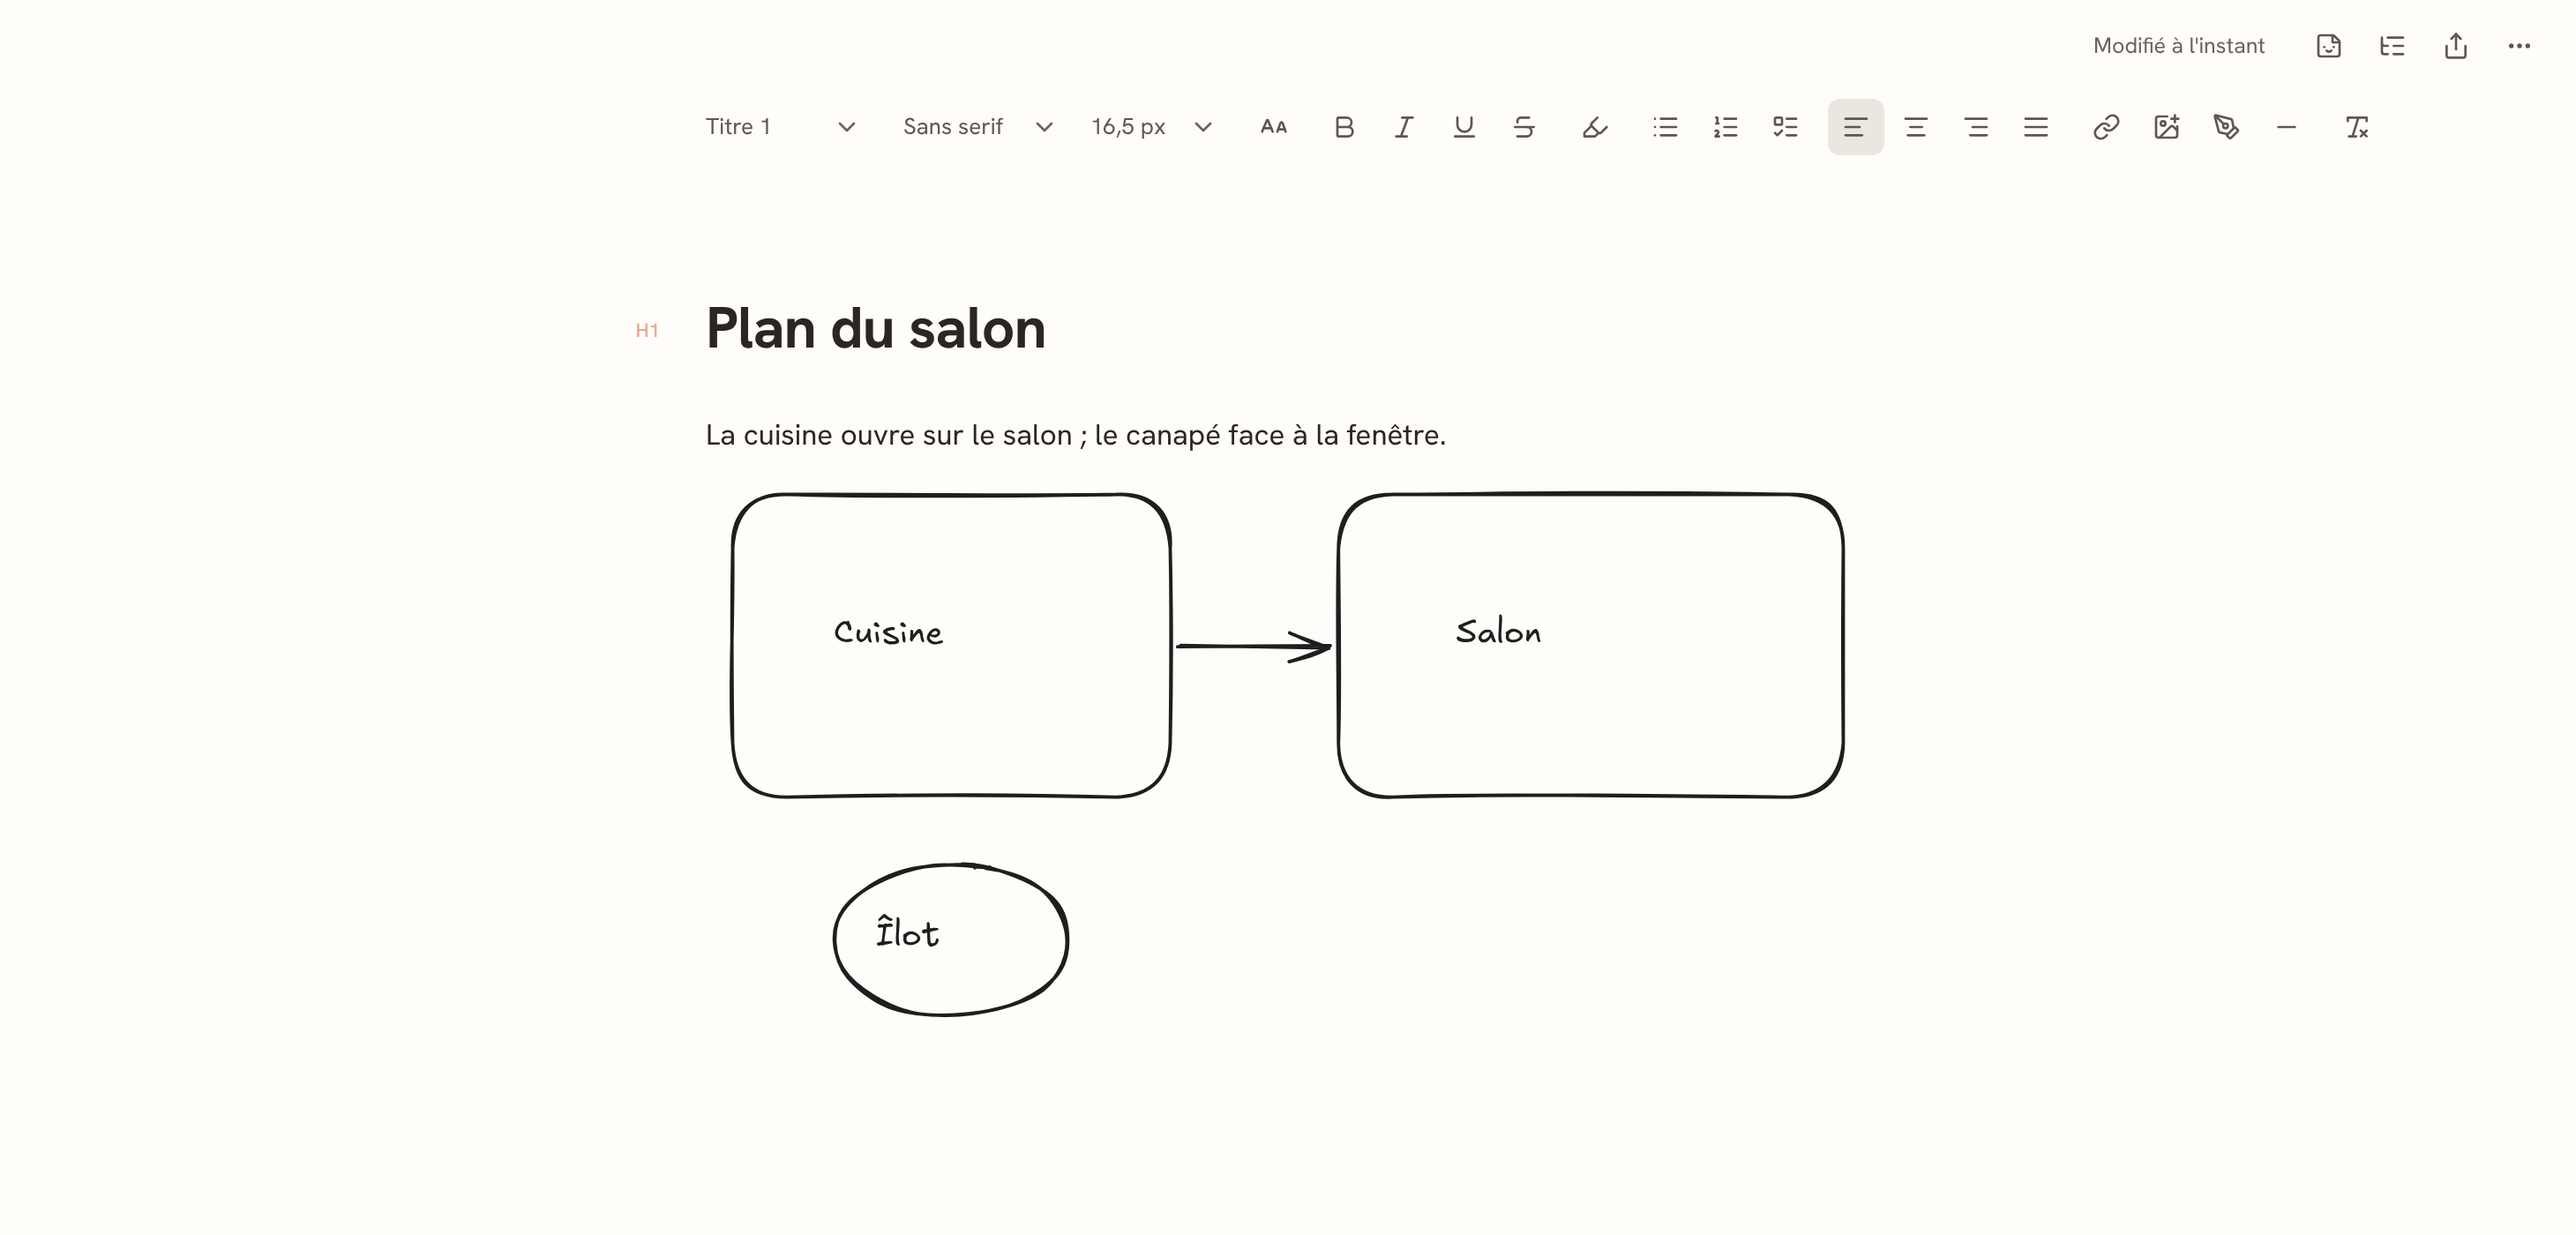
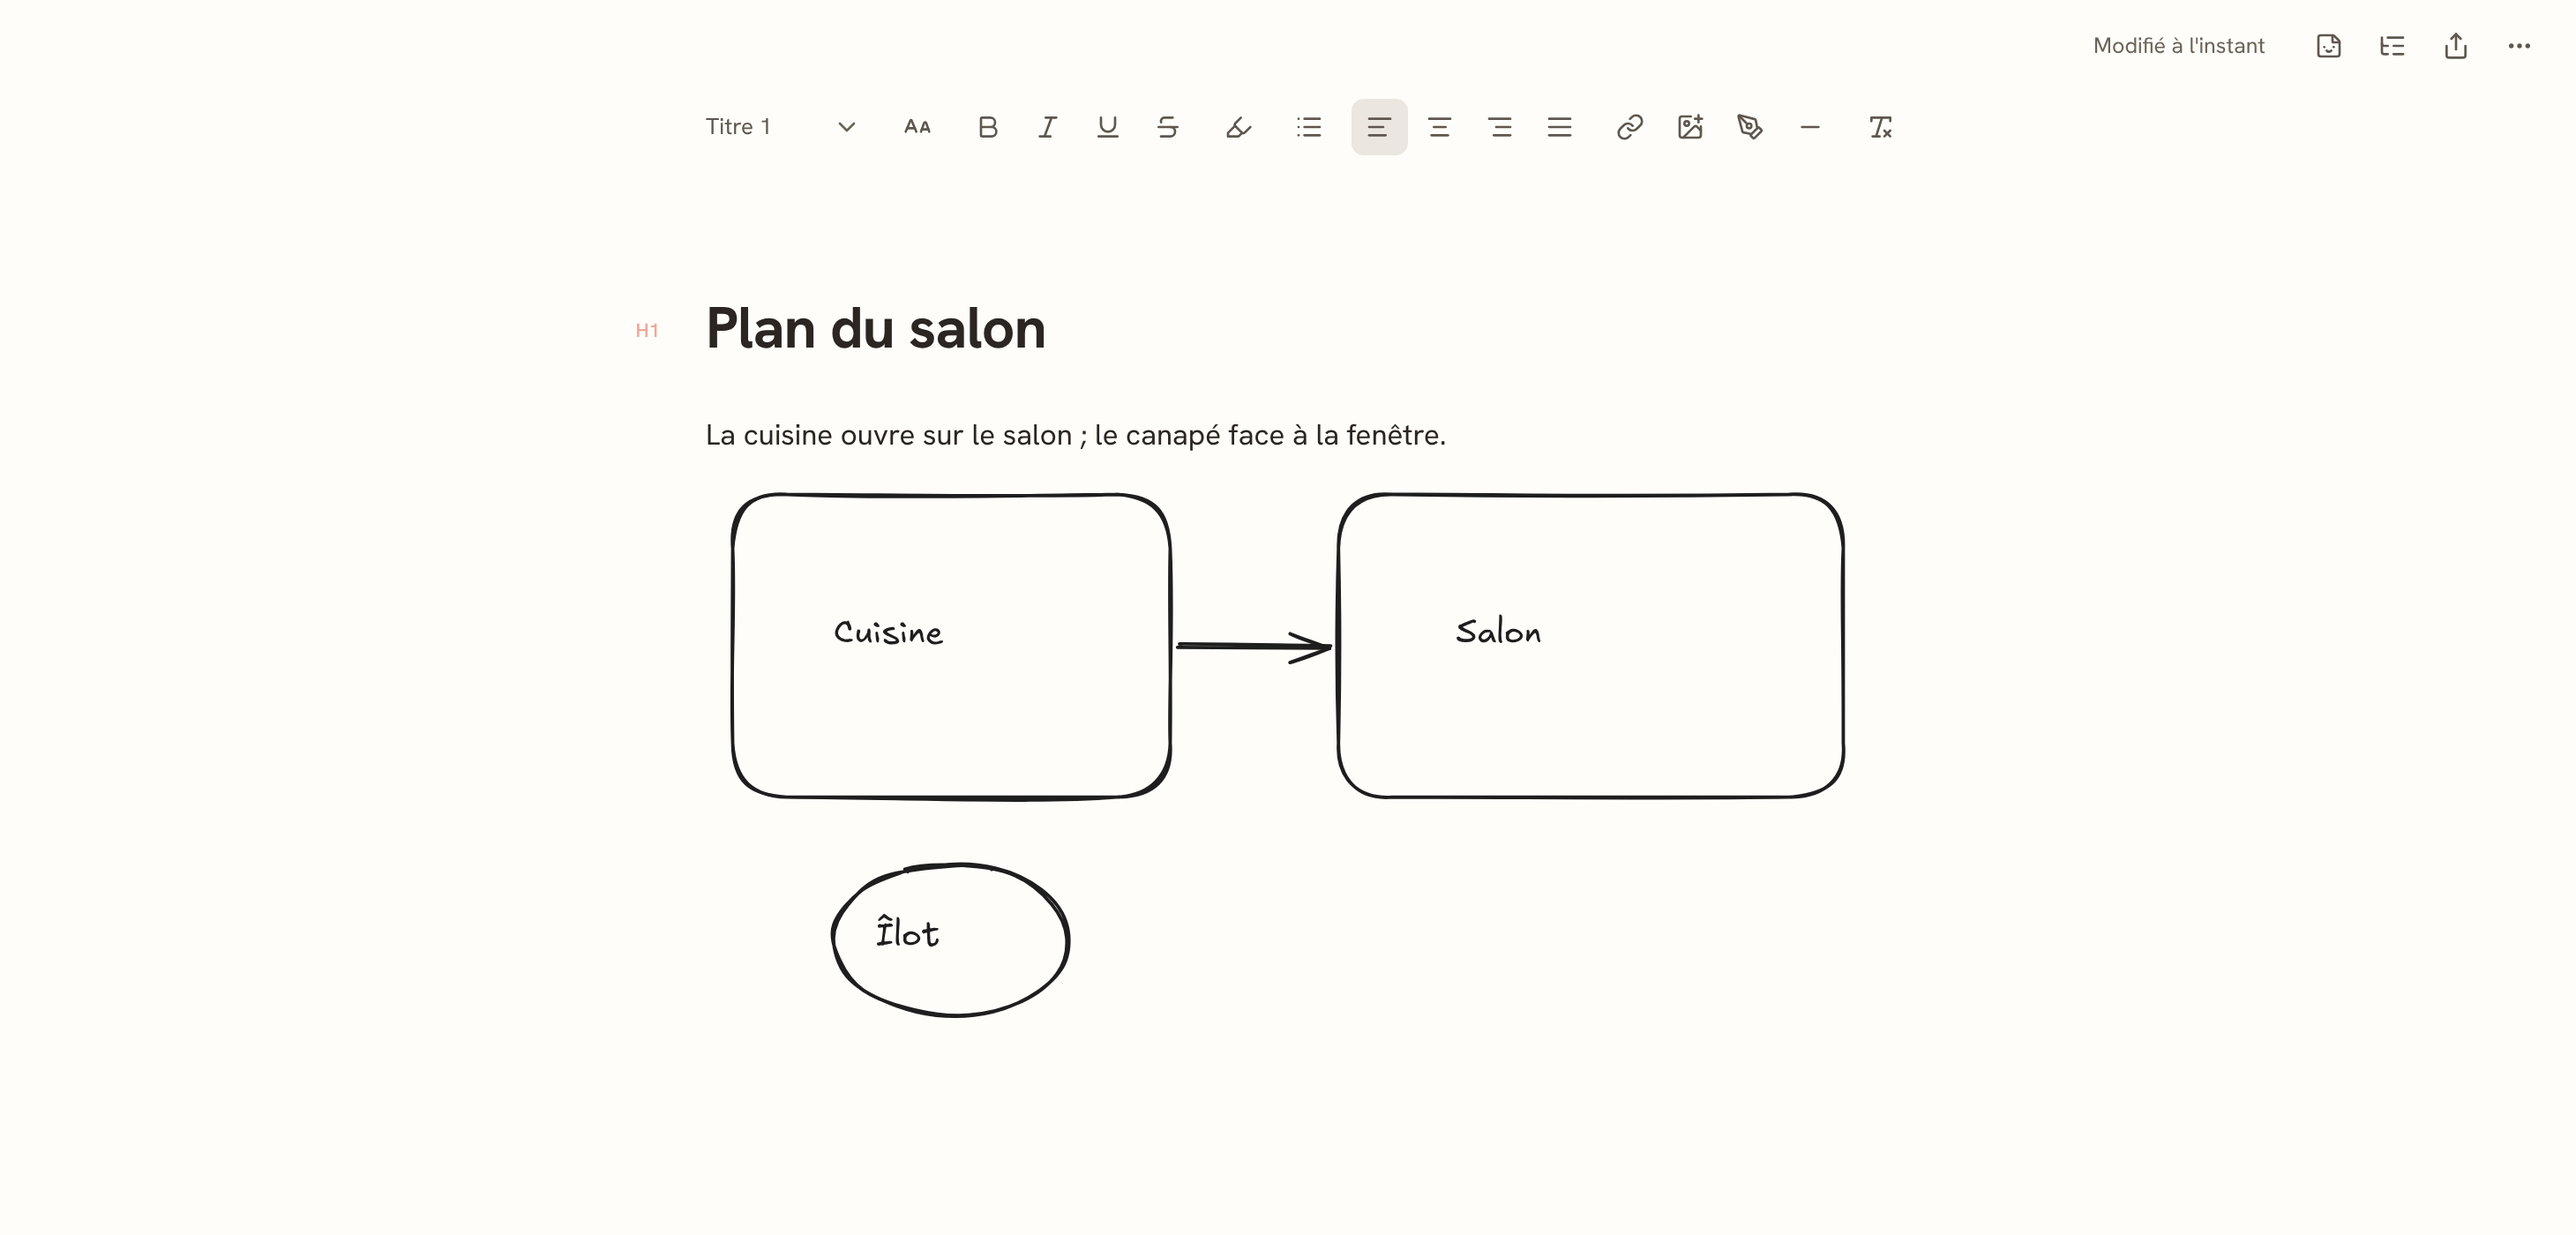
phase 12: docs for the pre-merge feedback; CHANGELOG 1.0.0 includes the toolbar and drawings
PROGRESS: compact toolbar, drawing versions, dark hues, CJK font (decisions
P12-9 to P12-11), the steps to recreate the 1.0.0 release from main, and a
Windows checklist. CHANGELOG: the unreleased section folded into 1.0.0, which
is to be recreated from main. CLAUDE.md: drawing versions, the CJK font and
its network access. Captures retaken at 1 440 px with both side columns open,
plus the "Aa" popover.

Claude-Session: https://claude.ai/code/session_013rnneVvYnVFkH2YCQ6T5TA

diff --git a/PROGRESS.md b/PROGRESS.md
@@ -15,7 +15,7 @@
 | 8 | Stickers et post-it | ✅ validée |
 | 9 | OCR local | ✅ validée |
 | 10 | Export, raccourcis, palette, packaging | 🟡 10a à 10d validées ; retours sur la 1.0 traités, à valider |
-| — | Barre de mise en forme, dessins (Excalidraw) | 🟡 faite sur `feature/barre-format`, à valider |
+| — | Barre de mise en forme, dessins (Excalidraw) | 🟡 faite sur `feature/barre-format` (retours avant fusion traités), à valider |
 
 ---
 
@@ -1292,6 +1292,40 @@ Aucune maquette ne montre la barre de mise en forme ni l'éditeur de dessin. La 
 8. Double-clic (puis Ctrl+clic) sur le dessin : modifie, « Fermer » : la question « Fermer sans enregistrer ? » ; Enregistrer : l'aperçu se met à jour. Recherche « cuisine » : la note sort, « Trouvé dans un dessin ».
 9. Palette sombre : le dessin s'inverse lisiblement. Duplique la note, modifie le dessin de la copie : l'original ne change pas. Exporte en PDF, DOCX, PNG et Markdown : dessin, police, tailles, souligné et couleurs présents ; le dossier Markdown contient le `.svg` et le `.excalidraw`.
 10. Coupe le réseau (mode avion) puis ouvre l'éditeur de dessin : tout fonctionne, polices comprises.
+
+### Retours avant fusion (barre de mise en forme) : fait, à valider
+
+- **Barre compacte** : police et taille de la note + taille de la sélection derrière un seul bouton « Aa » (popover : deux listes et un sélecteur petit / normal / grand, appliqués tout de suite, annulables) ; puces / numérotée / tâche dans un seul menu « Listes » (icône du type courant). Faute de place, l'alignement puis l'insertion se replient chacun en un bouton-menu ; « … » ne sert qu'en dessous d'environ 1 140 px avec barre latérale et liste ouvertes. Mesuré par `test:format` : barre entière sans débordement à 1 440 px, alignement en menu à 1 280, insertion aussi à 1 200, « … » à 1 000 (P12-9).
+- **Versions des dessins** : avant chaque enregistrement d'un dessin modifié, la scène remplacée est gardée dans `.ursa/backups/dessins/<id>/` (5 dernières ; jamais listée ni purgée comme une sauvegarde). « Versions précédentes… » dans la barre du dessin (note) et dans l'éditeur de dessin : une version s'ouvre dans l'éditeur, l'enregistrer la restaure (l'actuelle est gardée à son tour) (P12-10).
+- **Sombre** : l'inversion (`invert(93%) hue-rotate(180deg)`, comme Excalidraw) garde les teintes : rouge 0° → 0°, vert 131° → 131°, bleu 209° → 209°, orange 35° → 32° (`test:drawing`, filtre réel). Captures `dessin-couleurs-clair.png` / `dessin-couleurs-sombre.png`. Trouvé en route : Excalidraw lit l'emplacement de ses polices une seule fois, au chargement de son code ; il est maintenant posé au démarrage.
+- **Chinois** (simplifié et traditionnel, japonais, coréen) : sans police CJK, le texte s'affiche avec la police du système dans l'éditeur, l'aperçu et les exports ; l'aperçu pointait vers le CDN d'Excalidraw pour la police qu'il n'avait pas pu embarquer, c'est retiré. Réglages › Dessins propose le téléchargement à la demande, une seule fois pour l'ordinateur, de Xiaolai (209 fichiers, 12 Mo), par le code réseau des aperçus de liens, chaque fichier vérifié par SHA-256 ; les aperçus enregistrés ensuite embarquent ses glyphes : même rendu partout. L'éditeur de dessin le propose quand le dessin contient du CJK (P12-11). `test:drawing` dessine le texte sans puis avec la police et écrit éditeur, note, image d'export et PDF dans `test-results/drawing-cjk/`, publié par la CI Windows (artefact `drawing-cjk`, rendu de Windows) ; la CI télécharge aussi un vrai fichier (test Rust).
+
+### Décisions (retours avant fusion)
+
+| # | Sujet | Décision |
+|---|---|---|
+| P12-9 | Barre compacte | « Aa » = popover (police / taille de la note, taille de la sélection) ; « Listes » = menu ; repli par priorité calculé depuis les jetons : tout, puis alignement en menu, puis insertion en menu, puis « … ». |
+| P12-10 | Versions des dessins | `.ursa/backups/dessins/<id>/<ms>.excalidraw`, 5 au plus, seulement si la scène change ; restaurer = ouvrir dans l'éditeur puis enregistrer (une étape visible, annulable par « Fermer »). |
+| P12-11 | Police CJK | Xiaolai d'Excalidraw (OFL), adresse d'Excalidraw (esm.sh, version du paquet), uniquement les fichiers du manifeste construit à partir du paquet installé (nom + SHA-256), via `preview::fetch` ; stockée dans `%LOCALAPPDATA%\com.bullshit.notes\fonts\Xiaolai\`, servie par `vault:` sous `_fonts/`. Les `@font-face` non embarqués sont retirés des aperçus. Le serveur de dev applique la CSP de l'app pour les polices et requêtes ; Chromium y signale les URL de repli CDN d'Excalidraw, bloquées avant toute connexion. |
+
+### Publication de la 1.0.0 depuis `main` (après ton go)
+
+`CHANGELOG.md` : la section 1.0.0 inclut maintenant la barre de mise en forme et les dessins (datée du 20 novembre 2026, à ajuster le jour de la publication). La release brouillon et le tag `v1.0.0` actuels sont supprimés par le workflow lui-même (étape « Tag the version », P11-10) : rien à supprimer à la main.
+
+1. Créer `main` depuis `feature/barre-format` : GitHub › *Code* › *Branches* › *New branch* « main », source `feature/barre-format` ; puis *Settings* › *General* › *Default branch* → `main`.
+2. *Actions* › *Windows* › *Run workflow*, branche **`main`**, cocher **« release »**. Le run passe tous les tests, supprime la release brouillon `v1.0.0` et son tag, tague le commit de `main` et recrée la release brouillon avec l'installeur et les notes 1.0.0.
+3. Vérifier la release brouillon (*Releases*), télécharger l'installeur, puis *Publish release*.
+
+Si tu préfères supprimer d'abord à la main : *Releases* › brouillon « Bullshit 1.0.0 » › *Delete* ; *Tags* › `v1.0.0` › *Delete* (ou `git push origin :refs/tags/v1.0.0`), puis l'étape 2.
+
+### Checklist complémentaire (Windows)
+1. Fenêtre 1 440 px, barre latérale et liste ouvertes : toute la barre, sans « … ». Réduis : l'alignement puis l'insertion passent en menu, « … » vers 1 100 px.
+2. « Aa » : police Manuscrite, taille 20 px, « Grand » sur un mot ; Échap ; Ctrl+Z annule une à une.
+3. Menu « Listes » : le type courant est coché, l'icône suit.
+4. Modifie et enregistre un dessin trois fois ; barre du dessin › « Versions précédentes… » : 3 versions datées ; ouvre la plus ancienne, « Fermer » demande confirmation, « Enregistrer » la restaure.
+5. Thème sombre : un dessin avec du rouge, du vert, du bleu garde ses couleurs.
+6. Dessin avec « 简体中文 繁體中文 » : lisible dans l'éditeur, la note, l'export PDF et PNG. L'éditeur propose « télécharger la police des dessins… ».
+7. Réglages › Dessins › Télécharger (12 Mo) : progression, « Installée » ; relance l'app, refais le dessin : même écriture manuscrite dans l'éditeur, l'aperçu et les exports. Mode avion pendant le téléchargement : message clair, « Reprendre » ensuite.
 
 ### Arborescence
 

diff --git a/CLAUDE.md b/CLAUDE.md
@@ -30,7 +30,7 @@ Si DESIGN.md est muet : proposer une solution cohérente et la consigner dans `P
 - Éditeur : **CodeMirror 6** uniquement (pas de contenteditable maison).
 - Style : variables CSS + **CSS modules** (`*.module.css`).
 - Icônes UI/tags : **lucide-react**. Stickers : **Fluent Emoji** (MIT) embarqués. Polices embarquées (woff2, `@fontsource/*`) : Hanken Grotesk, JetBrains Mono, Newsreader, Caveat (OFL).
-- 100 % local, aucune télémétrie. Seule requête réseau : aperçus de liens (désactivables), faite côté Rust.
+- 100 % local, aucune télémétrie. Requêtes réseau : aperçus de liens (désactivables) et, sur demande dans Réglages › Dessins, la police CJK des dessins ; toutes faites côté Rust.
 
 ## Règles de style (non négociables)
 
@@ -105,7 +105,7 @@ cd src-tauri && cargo clippy --all-targets -- -D warnings && cargo test
 - Modales : `components/Dialog.tsx` (scrim, focus piégé, app inerte derrière) ; popovers et toast rendus dans `document.body`. Réglages : `src/features/settings/`, ouverts via `settingsPage` du store.
 - Mode focus : `focusMode` du store (non persisté), `src/app/layout.ts` ; estompage des paragraphes `src/editor/focusDim.ts`. Comptages (mots, caractères, lecture) : `src/core/markdown/stats.ts`.
 - Pièces jointes : Rust `assets.rs` (import par chemins / octets / presse-papier système, format d'après le contenu, SHA-256, protocole `vault:` qui ne sert que `assets`, notes et caches `.ursa/thumbs|previews`, vignettes `_thumb/…`, PDF) ; côté app `src/app/attachments.ts`, `crops.ts`, `pdfs.ts`, `previews.ts` ; lignes d'image / PDF / URL dans `src/core/markdown/embeds.ts` ; blocs de l'éditeur dans `src/editor/embeds/` (champ d'état, widgets image / carte de lien / carte PDF ; hauteur de bloc = multiple de `--rhythm`). Les SVG ne passent que par `<img>`.
-- Aperçus de liens : uniquement `src-tauri/src/preview.rs` ; toute requête passe par `fetch()` (contrôle d'URL + IP après DNS + connexion épinglée + redirections vérifiées). Ne jamais ajouter d'autre accès réseau.
+- Aperçus de liens : uniquement `src-tauri/src/preview.rs` ; toute requête passe par `fetch()` (contrôle d'URL + IP après DNS + connexion épinglée + redirections vérifiées). Ne jamais ajouter d'autre accès réseau. Seule autre requête : la police CJK des dessins, sur demande explicite (`cjk.rs`, même `fetch()`).
 - Alignement par bloc : modèle pur `src/core/align.ts` (frontmatter `align:`, mêmes clés d'ancrage que les stickers, gauche jamais écrit ; paragraphes, titres, citations, éléments de liste seulement) ; éditeur `src/editor/align.ts` (champ d'état, effets inversibles, classes `cm-align-*`, menu du bloc au clic droit — Maj+clic droit et sélection gardent le menu système) ; persistance par `withEditorAligns` (`src/app/notes.ts`) ; exports via `parseDocument(body, alignedLinesOf(…))`. Les stickers au-dessus d'un texte aligné s'écartent à l'affichage (`avoidText`, `layer.ts`).
 - Colonne de texte : `settings.editor.columnPosition` et frontmatter `column:` (classe `columnLeft` de `paper.module.css`) ; la marge rouge et les marqueurs H suivent la colonne.
 - Mode machine à écrire (`src/editor/typewriter.ts`) : recentrage seulement à l'écriture et aux touches qui changent de ligne (`EditorView.scrollHandler`), jamais au clic ni à la molette ; `toggleTypewriter()` (`src/app/layout.ts`) rend le focus à l'éditeur. Modales et menus rendent le focus avec `preventScroll`.
@@ -123,7 +123,7 @@ cd src-tauri && cargo clippy --all-targets -- -D warnings && cargo test
 - **Raccourcis** : uniquement déclarés dans `src/app/shortcuts.ts` ; les composants les référencent par id (`shortcutLabel`, `shortcutKeys`, `matchShortcut`), jamais par touches : les personnalisations (`settings.shortcuts`, règles et résolution dans `src/core/keys.ts`) s'appliquent alors partout. Les raccourcis de l'éditeur passent par `EDITOR_COMMANDS` (`src/editor/setup.ts`).
 - **Commandes** : toute action nommable va dans `src/app/commandList.ts` (libellé, icône, raccourci, raison d'indisponibilité) ; la palette (`src/app/palette.ts`) et les raccourcis globaux s'en servent.
 - Barre de mise en forme : `src/features/editor/FormatBar.tsx` (groupes, débordement dans « … ») ; commandes pures sur les lignes dans `src/core/markdown/blockFormat.ts`, balises en ligne (`<u>`, `<span data-size>`, `<mark data-color>`) dans `src/core/markdown/inlineTags.ts` (lecture, appariement, retrait pour la recherche) ; commandes de l'éditeur et état de la sélection dans `src/editor/format.ts` (`runFormat`, `formatReporter` → store `format`), appelées par `formatSelection()` (`session.ts`). Police / taille de la note : `src/editor/noteStyle.ts` (champ annulable, variables CSS sur `.cm-editor`), frontmatter `font:` / `size:` écrit par `withEditorLook` (`notes.ts`). Réglage `settings.editor.formatBar`.
-- Dessins : modèle pur `src/core/drawings.ts` (chemins `assets/dessins/<id>.svg|.excalidraw`, texte pour la recherche) ; Rust `src-tauri/src/drawings.rs` (`read_drawing`, `save_drawing`, `copy_drawing`) via `src/services/drawings.ts` ; app `src/app/drawings.ts` (ouverture, enregistrement, source de recherche `drawing`, versions d'URL) ; modale `src/features/drawing/` (`DrawingDialog` toujours chargé, `DrawingEditor` = Excalidraw en `lazy`). Polices Excalidraw servies par `scripts/vite-excalidraw-fonts.ts` (jamais de CDN). Les raccourcis globaux sont suspendus tant que `drawing` est ouvert.
+- Dessins : modèle pur `src/core/drawings.ts` (chemins `assets/dessins/<id>.svg|.excalidraw`, texte pour la recherche) ; Rust `src-tauri/src/drawings.rs` (`read_drawing`, `save_drawing`, `copy_drawing`) via `src/services/drawings.ts` ; app `src/app/drawings.ts` (ouverture, enregistrement, source de recherche `drawing`, versions d'URL) ; modale `src/features/drawing/` (`DrawingDialog` toujours chargé, `DrawingEditor` = Excalidraw en `lazy`). Polices Excalidraw servies par `scripts/vite-excalidraw-fonts.ts` (jamais de CDN). Les raccourcis globaux sont suspendus tant que `drawing` est ouvert. Versions précédentes : Rust garde la scène remplacée dans `.ursa/backups/dessins/<id>/` (5), `DrawingVersions.tsx`. Police CJK à la demande : Rust `src-tauri/src/cjk.rs` (via `preview::fetch`, SHA-256 du manifeste `virtual:excalidraw-cjk`), `src/app/cjkFont.ts`, Réglages › Dessins ; `EXCALIDRAW_ASSET_PATH` posé au démarrage (`setDrawingAssetPath`).
 - **Markdown** : une seule grammaire (`src/core/markdown/syntax.ts`) pour l'éditeur et l'indexation. Le rendu live (`src/editor/livePreview/`) ne parcourt que la zone visible ; ses styles sont dans `src/editor/editor.css` (règles de ligne en `.cm-editor .cm-line.x`).
 - Notes d'exemple dans `samples/` (`npm run sample:long` régénère la note de 5 000 lignes). Outils de dev du navigateur : `localStorage` `ursa-dev-raw`, `ursa-dev-fail-writes`.
 
